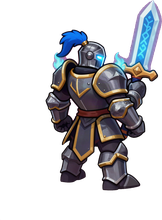
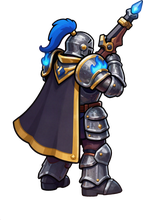
Straight rear-view knights and a parachute drop opening
- Knight and champion redrawn from behind, standing straight and holding
  their crossbows forward up the road, like Last War's soldiers
- Each run opens like Last War: a cursed airship hovers over the road, the
  knights parachute down one by one with shadows, the airship flies off
- Swipe left or right hint with a sliding hand for the first three runs

diff --git a/src/scenes/game.js b/src/scenes/game.js
@@ -112,7 +112,7 @@ class GameScene extends Phaser.Scene {
     Music.start();
     this.events.once('shutdown', () => Music.stop());
 
-    this.banner('DRAG TO STEER', '#c8f1ff', 'Shoot gold cards to raise them');
+    this.startIntro();
   }
 
   // ---------------------------------------------------------------- setup
@@ -161,7 +161,7 @@ class GameScene extends Phaser.Scene {
       o._w = [o.x, o.y, o.scaleX, o.scaleY];
       const p = project(o.x, o.y);
       o.x = p.x;
-      o.y = p.y;
+      o.y = p.y - (o.lift || 0) * p.s;
       o.setScale(o._w[2] * p.s, o._w[3] * p.s);
       if (depthFromY) o.setDepth(10 + (o._w[1] + 1000) / 10000);
     };
@@ -175,6 +175,13 @@ class GameScene extends Phaser.Scene {
     this.knights.forEach((o) => add(o, true));
     this.bullets.getChildren().forEach((o) => add(o));
     add(this.squadLabel);
+    if (this.airship) add(this.airship);
+    if (this.drops) {
+      this.drops.forEach((d) => {
+        if (d.shadow) add(d.shadow);
+        if (d.chute) add(d.chute);
+      });
+    }
   }
 
   restoreAll() {
@@ -371,6 +378,7 @@ class GameScene extends Phaser.Scene {
     this.input.on('pointermove', (p) => {
       if (!this.drag || p.id !== this.drag.id || !p.isDown) return;
       this.targetX = this.clampSquadX(this.drag.sx + (p.x - this.drag.px) * 1.25);
+      if (this.tutorial) this.tutorial.moved += Math.abs(p.x - p.prevPosition.x);
     });
     this.input.on('pointerup', (p) => {
       if (this.drag && p.id === this.drag.id) this.drag = null;
@@ -499,6 +507,14 @@ class GameScene extends Phaser.Scene {
       return;
     }
 
+    if (this.introActive) {
+      this.updateIntro(dt);
+      this.updateSpeedFx(dt, 1);
+      this.updateHud(1);
+      return;
+    }
+    this.updateTutorial(dt);
+
     if (s.slowTimer > 0) s.slowTimer -= dt;
     if (s.surgeTimer > 0) s.surgeTimer -= dt;
     if (s.surgeCd > 0) s.surgeCd -= dt;
@@ -529,6 +545,132 @@ class GameScene extends Phaser.Scene {
     this.updateWaves(dt);
     this.updateSpeedFx(dt, eff);
     this.updateHud(eff);
+  }
+
+  // ---------------------------------------------------------------- opening drop
+
+  // Like Last War's opening: a transport hovers over the road, the squad
+  // parachutes down to its spot, the transport flies off, then the run starts.
+  startIntro() {
+    this.introActive = true;
+    this.introT = 0;
+    this.squadLabel.setVisible(false);
+    this.airship = this.add.image(W / 2, LINE_Y - 400, 'airship').setDepth(40).setScale(1.45);
+    this.airship.lift = 260;
+    this.drops = [];
+    for (let i = 0; i < this.units; i++) {
+      const kn = this.knights[i];
+      kn.setVisible(false);
+      this.drops.push({
+        kn,
+        chute: this.add.image(0, 0, 'chute').setDepth(21).setVisible(false).setScale(kn.isChampion ? 0.9 : 0.7),
+        shadow: this.add.image(0, 0, 'shadow').setDepth(4).setVisible(false),
+        start: 0.7 + i * 0.25,
+        dur: 1.7,
+        landed: false,
+      });
+    }
+    Sfx.tone(70, 1.6, 'sawtooth', 0.05, 0, 90);
+  }
+
+  updateIntro(dt) {
+    this.introT += dt;
+    const t = this.introT;
+    const a = this.airship;
+    if (a) {
+      a.lift = 260 + Math.sin(t * 2.2) * 12;
+      const last = this.drops.length ? this.drops[this.drops.length - 1].start : 0;
+      if (t > last + 0.5) {
+        a.x += 560 * dt;
+        a.y -= 120 * dt;
+        if (a.x > W + 500) {
+          a.destroy();
+          this.airship = null;
+        }
+      }
+    }
+
+    let allLanded = true;
+    for (const d of this.drops) {
+      if (d.landed) continue;
+      allLanded = false;
+      if (t < d.start) continue;
+      if (!d.from) {
+        d.from = { x: (a ? a.x : W / 2) + (Math.random() - 0.5) * 80, y: (a ? a.y : LINE_Y - 400) + 20, lift: 200 };
+      }
+      const k = Math.min(1, (t - d.start) / d.dur);
+      const e = 1 - (1 - k) * (1 - k);
+      const kn = d.kn;
+      const tx = this.squadX + kn.off.x;
+      const ty = LINE_Y + kn.off.y;
+      kn.setVisible(true);
+      kn.x = d.from.x + (tx - d.from.x) * e;
+      kn.y = d.from.y + (ty - d.from.y) * e;
+      kn.lift = d.from.lift * (1 - e) + Math.sin(k * Math.PI * 3) * 6 * (1 - k);
+      d.chute.setVisible(true).setPosition(kn.x, kn.y);
+      d.chute.lift = kn.lift + (kn.isChampion ? 130 : 110);
+      d.chute.setAngle(Math.sin(t * 3 + kn.phase) * 6);
+      d.shadow.setVisible(true).setPosition(kn.x, kn.y + 6).setScale(0.5 + 0.5 * e).setAlpha(0.3 + 0.5 * e);
+      if (k >= 1) {
+        d.landed = true;
+        kn.lift = 0;
+        const chute = d.chute;
+        d.chute = null;
+        this.tweens.add({ targets: chute, alpha: 0, scaleY: 0.2, duration: 300, onComplete: () => chute.destroy() });
+        d.shadow.destroy();
+        d.shadow = null;
+        this.explode(this.burstGold, 8, kn.x, kn.y);
+        Sfx.tone(130, 0.14, 'sine', 0.18, 0, 60);
+      }
+    }
+    if (allLanded && this.drops.length) this.finishIntro();
+  }
+
+  finishIntro() {
+    this.introActive = false;
+    this.knights.forEach((k) => { k.lift = 0; });
+    this.squadLabel.setVisible(true);
+    this.banner('WAVE 1', '#f2c14e', 'Hold the road');
+    this.startTutorial();
+  }
+
+  // "Swipe left or right" hint with a sliding hand, for the first few runs.
+  startTutorial() {
+    const runs = Store.get('tutorialRuns', 0);
+    if (runs >= 3) return;
+    Store.set('tutorialRuns', runs + 1);
+    const y = 1000;
+    const c = this.add.container(0, 0).setDepth(55);
+    const g = this.add.graphics();
+    const arrow = (x1, x2) => {
+      const dir = Math.sign(x2 - x1);
+      g.lineStyle(10, 0x0a0f0e, 0.9);
+      g.lineBetween(x1, y + 64, x2, y + 64);
+      g.lineStyle(5, 0xffffff, 1);
+      g.lineBetween(x1, y + 64, x2, y + 64);
+      g.fillStyle(0x0a0f0e, 0.9);
+      g.fillTriangle(x2 + dir * 22, y + 64, x2 - dir * 6, y + 46, x2 - dir * 6, y + 82);
+      g.fillStyle(0xffffff, 1);
+      g.fillTriangle(x2 + dir * 16, y + 64, x2 - dir * 2, y + 51, x2 - dir * 2, y + 77);
+    };
+    arrow(300, 150);
+    arrow(420, 570);
+    const txt = this.add.text(W / 2, y, 'SWIPE LEFT OR RIGHT TO MOVE YOUR KNIGHTS', textStyle(24, '#ffffff')).setOrigin(0.5);
+    const hand = this.add.image(W / 2, y + 100, 'hand');
+    c.add([g, txt, hand]);
+    this.tweens.add({ targets: hand, x: { from: 270, to: 450 }, duration: 750, yoyo: true, repeat: -1, ease: 'Sine.easeInOut' });
+    this.tutorial = { c, t: 0, moved: 0 };
+  }
+
+  updateTutorial(dt) {
+    const tu = this.tutorial;
+    if (!tu) return;
+    tu.t += dt;
+    if (this.keys.LEFT.isDown || this.keys.RIGHT.isDown || this.keys.A.isDown || this.keys.D.isDown) tu.moved += 600 * dt;
+    if (tu.t > 6 || tu.moved > 160) {
+      this.tutorial = null;
+      this.tweens.add({ targets: tu.c, alpha: 0, duration: 300, onComplete: () => tu.c.destroy() });
+    }
   }
 
   updateSquadVisual(dt, eff) {

diff --git a/src/textures.js b/src/textures.js
@@ -140,6 +140,49 @@ function makeTextures(scene) {
     layer(56, 50, 54, 0x1d4731);
   });
 
+  // Parachute canopy for the opening drop: dark cloth dome with a blue rune.
+  bake('chute', 150, 124, (g) => {
+    const dome = (rx, ry, cy) => {
+      const pts = [];
+      for (let i = 0; i <= 24; i++) {
+        const a = Math.PI + (i / 24) * Math.PI;
+        pts.push(new Phaser.Geom.Point(75 + Math.cos(a) * rx, cy + Math.sin(a) * ry));
+      }
+      return pts;
+    };
+    g.lineStyle(3, 0x0a0f0e, 1);
+    [12, 48, 102, 138].forEach((x) => g.lineBetween(x, 60, 75, 122));
+    g.fillStyle(0x0a0f0e, 1);
+    g.fillPoints(dome(75, 58, 62), true);
+    g.fillStyle(0x3b4250, 1);
+    g.fillPoints(dome(69, 52, 59), true);
+    g.fillStyle(0x4d5666, 1);
+    g.fillPoints(dome(32, 48, 59), true);
+    g.fillStyle(COLORS.knight, 1);
+    g.fillTriangle(75, 18, 87, 34, 75, 50);
+    g.fillTriangle(75, 18, 63, 34, 75, 50);
+    g.fillStyle(0xffffff, 1);
+    g.fillTriangle(75, 26, 80, 34, 75, 42);
+    g.fillTriangle(75, 26, 70, 34, 75, 42);
+  });
+
+  bake('shadow', 80, 30, (g) => {
+    g.fillStyle(0x000000, 0.4);
+    g.fillEllipse(40, 15, 80, 30);
+  });
+
+  // Pointing hand for the swipe tutorial.
+  bake('hand', 70, 96, (g) => {
+    g.fillStyle(0x0a0f0e, 1);
+    g.fillRoundedRect(22, 0, 24, 62, 12);
+    g.fillRoundedRect(8, 40, 56, 54, 18);
+    g.fillStyle(0xf6dcb8, 1);
+    g.fillRoundedRect(26, 4, 16, 58, 8);
+    g.fillRoundedRect(12, 44, 48, 46, 15);
+    g.fillStyle(0xe2bf95, 1);
+    g.fillRoundedRect(14, 74, 44, 14, 7);
+  });
+
   bake('dot', 8, 8, (g) => {
     g.fillStyle(0xffffff, 1);
     g.fillCircle(4, 4, 4);

diff --git a/src/scenes/boot.js b/src/scenes/boot.js
@@ -4,7 +4,7 @@ class BootScene extends Phaser.Scene {
   }
 
   preload() {
-    ['knight', 'champion', 'walker', 'sprinter', 'brute', 'boss', 'portrait_knight', 'portrait_champion'].forEach((key) => {
+    ['knight', 'champion', 'walker', 'sprinter', 'brute', 'boss', 'portrait_knight', 'portrait_champion', 'airship'].forEach((key) => {
       this.load.image(key, './assets/' + key + '.png');
     });
   }

diff --git a/README.md b/README.md
@@ -30,6 +30,7 @@ A portrait, one-thumb horde shooter built for Slapjam AI 2. The jam theme is **S
 - **Title:** gradient logo, settings gear (top left), how to play (top right), best run card, captain portraits, big PLAY button.
 - **How to play:** an illustrated guide to steering, fire rate, cards, barrels, champions and the horror. It opens on the first launch.
 - **Settings:** music and sound effect volume, vibration, screen shake, reset best run, and the version number. Reachable from the title and the pause menu.
+- **Opening drop (Last War style):** each run starts with a cursed airship hovering over the road. The knights parachute down to their spot one by one, the airship flies off, and a swipe hint with a sliding hand shows for the first three runs.
 - **Camera (Last War style):** the battle is seen from behind and above the squad, looking down the road at an angle. The road narrows toward the top and leans slightly, far things are small, near things are big, and pine forest lines both sides. The squad stands about two thirds of the way down the screen.
 - **In game (Last War style):** a small cluster in the top-left corner (captain portrait with the wave number, a wave progress bar, score and kill strips, and how many waves until the next horror), a small pause button top right, and a big fire rate meter at the bottom. During a boss, a huge outlined health number on a fat red bar. Gates are glassy panels with a big number, and brutes and barrels show their health right on them.
 - **Pause menu:** resume, how to play, settings, quit to title. The game also pauses by itself when you switch apps or tabs.
@@ -44,7 +45,7 @@ A portrait, one-thumb horde shooter built for Slapjam AI 2. The jam theme is **S
 
 - Phaser 3.80.1, stored in `lib/` so the game needs no internet.
 - Plain JavaScript, no build step.
-- Character art (knight, champion, cultist, crawler, brute, horror) was generated with AI (Higgsfield, Z Image model), then cut out and resized. The files are in `assets/`.
+- Character art (knight, champion, cultist, crawler, brute, horror, airship) was generated with AI (Higgsfield, Z Image model), then cut out and resized. The knights are drawn from behind, standing straight and holding their crossbows forward up the road, like Last War's soldiers. The files are in `assets/`.
 - Bolts, road, barrels and effects are drawn in code at startup, and all sound is made with WebAudio.
 - Game size is 720 x 1280 and scales to fit any screen.
 - Font: Lilita One (SIL Open Font License, see `assets/fonts/`), bundled so it works offline.
